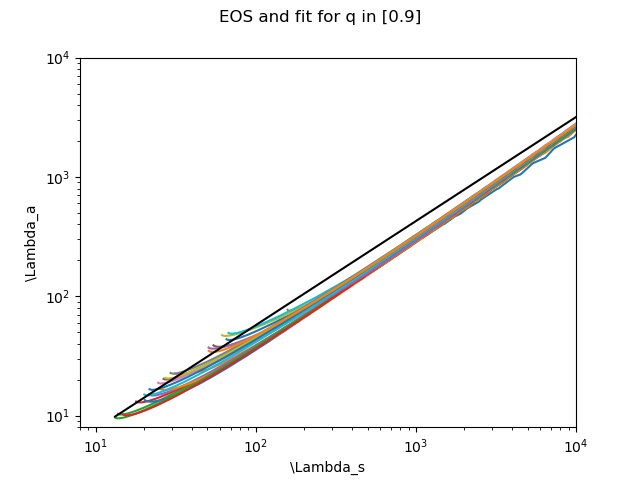
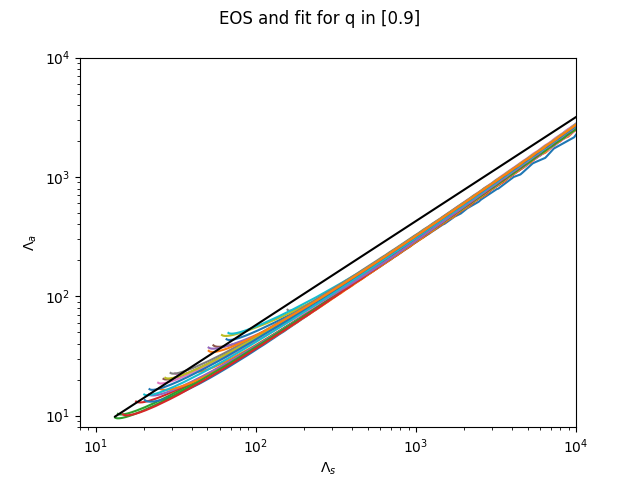
added dollar signs to axis labels

Changed region(s): [[0.3438, 0.0, 0.6562, 0.0625], [0.0312, 0.4375, 0.0625, 0.5938], [0.4375, 0.9688, 0.5625, 1.0]]

diff --git a/plotter.py b/plotter.py
@@ -1,8 +1,6 @@
 import numpy as np
 import matplotlib.pyplot as plt
 
-plt.rcParams['text.usetex'] = True
-
 from eos import EOS
 
 class Plotter:
@@ -68,8 +66,8 @@ class Plotter:
         fig, ax = plt.subplots(1, 1)
         self.plot_main_on_ax(ax=ax)
 
-        ax.set_xlabel(r'\Lambda_s')
-        ax.set_ylabel(r'\Lambda_a')
+        ax.set_xlabel(r'$\Lambda_s$')
+        ax.set_ylabel(r'$\Lambda_a$')
 
         fig.suptitle('EOS and fit for q in ' + str(self.qs))
 
